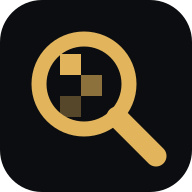
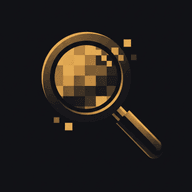
feat: use the Nano Banana brand art and log image QA batch 2
Icons and the link-preview card now come from the generated logo, icon and
banner: palette PNGs (icon-512 280 KB -> 34 KB), padding sampled from the
art so maskable crops show no seam, and the preview drops its drawn tiles
over the banner's own cards. Puzzle 38 accepts girl/schoolgirl, which the
image shows. 59 of 60 puzzle images exist; only #44 is missing.

diff --git a/scripts/build-brand.ts b/scripts/build-brand.ts
@@ -6,7 +6,6 @@ import { existsSync, mkdirSync, readFileSync } from "node:fs";
 import sharp from "sharp";
 
 const OUT = "public/brand";
-const BG = "#0b0d10";
 const find = (name: string) => ["png", "jpg", "jpeg", "webp"].map((e) => `content/brand/${name}.${e}`).find(existsSync);
 
 async function main() {
@@ -14,16 +13,19 @@ async function main() {
   const art = find("icon");
   const source = art ? readFileSync(art) : readFileSync("src/app/icon.svg");
   console.log(`icon source: ${art ?? "src/app/icon.svg (placeholder)"}`);
+  // Pad with the art's own background color so no seam shows when phones crop the icon.
+  const corner = await sharp(source, { density: 600 }).resize(64, 64, { fit: "cover" }).extract({ left: 1, top: 1, width: 1, height: 1 }).raw().toBuffer();
+  const pad = { r: corner[0] ?? 11, g: corner[1] ?? 13, b: corner[2] ?? 16, alpha: 1 };
 
   // Plain icons use the art edge to edge. The maskable icon pads it so phones can crop to a circle.
   for (const size of [192, 512]) {
-    await sharp(source, { density: 600 }).resize(size, size, { fit: "cover" }).png().toFile(`${OUT}/icon-${size}.png`);
+    await sharp(source, { density: 600 }).resize(size, size, { fit: "cover" }).png({ palette: true, quality: 90 }).toFile(`${OUT}/icon-${size}.png`);
   }
-  await sharp(source, { density: 600 }).resize(180, 180, { fit: "cover" }).flatten({ background: BG }).png().toFile("src/app/apple-icon.png");
+  await sharp(source, { density: 600 }).resize(180, 180, { fit: "cover" }).flatten({ background: pad }).png({ palette: true, quality: 90 }).toFile("src/app/apple-icon.png");
   const inner = await sharp(source, { density: 600 }).resize(410, 410, { fit: "cover" }).png().toBuffer();
-  await sharp({ create: { width: 512, height: 512, channels: 4, background: BG } })
+  await sharp({ create: { width: 512, height: 512, channels: 4, background: pad } })
     .composite([{ input: inner, gravity: "center" }])
-    .png()
+    .png({ palette: true, quality: 90 })
     .toFile(`${OUT}/icon-maskable-512.png`);
 
   const og = find("og-background");

diff --git a/src/app/opengraph-image.tsx b/src/app/opengraph-image.tsx
@@ -42,6 +42,16 @@ export default async function Image() {
           // eslint-disable-next-line @next/next/no-img-element -- ImageResponse renders plain img only
           <img src={bg} alt="" width={1200} height={630} style={{ position: "absolute", inset: 0, objectFit: "cover" }} />
         )}
+        {bg && (
+          // Keeps the title readable over the banner art.
+          <div
+            style={{
+              position: "absolute",
+              inset: 0,
+              background: `linear-gradient(90deg, ${INK} 0%, ${INK} 38%, rgba(11,13,16,0.55) 58%, rgba(11,13,16,0) 75%)`,
+            }}
+          />
+        )}
         <div style={{ display: "flex", alignItems: "center", gap: 28 }}>
           <svg width="96" height="96" viewBox="0 0 64 64">
             <rect x="20" y="18" width="7" height="7" fill={AMBER} />
@@ -49,10 +59,11 @@ export default async function Image() {
             <circle cx="28" cy="28" r="15" fill="none" stroke={AMBER} strokeWidth="5" />
             <path d="M39 39l13 13" stroke={AMBER} strokeWidth="7" strokeLinecap="round" />
           </svg>
-          <div style={{ fontSize: 84, fontWeight: 700, letterSpacing: -2 }}>{en.appName}</div>
+          <div style={{ fontSize: bg ? 68 : 84, fontWeight: 700, letterSpacing: -2 }}>{en.appName}</div>
         </div>
-        <div style={{ fontSize: 38, marginTop: 24, maxWidth: 760, color: "#cfccc5" }}>{en.tagline}</div>
-        <div style={{ display: "flex", gap: 18, marginTop: 56 }}>
+        <div style={{ fontSize: bg ? 32 : 38, marginTop: 24, maxWidth: bg ? 540 : 760, color: "#cfccc5" }}>{en.tagline}</div>
+        {/* The Nano Banana banner draws its own four cards; the plain version draws the slots. */}
+        <div style={{ display: bg ? "none" : "flex", gap: 18, marginTop: 56 }}>
           {SLOT_KEYS.map((slot) => (
             <div
               key={slot}

diff --git a/docs/CONTENT-LOG.md b/docs/CONTENT-LOG.md
@@ -27,3 +27,22 @@ Notes:
 - Puzzles 34 to 60 written in three batches (content/raw/batch-04 to 06): 0 validator errors. Two HOT words removed because typo tolerance would have scored them SOLVED ("toasting" vs "roasting" in #44, vs "tasting" in #56).
 - New style in rotation: renaissance painting (#42, a Saturday).
 - Prompt template v2 applied to the two image redos: #14 adds "geometric fragmented shapes" to cubism, #24 asks for "benches and dumbbell racks" so the gym is visible.
+
+## 2026-10-05: Image QA, batch 2 (brand + puzzles 14, 24, 25, 27 to 60)
+
+Source: Nano Banana in the Gemini app, prompts from docs/NANO-BANANA-PROMPTS.md. 41 files arrived in one folder, saved in order but with five brand images and no #44, so everything was mapped by content, not position.
+
+| Result | Puzzles | Count |
+|---|---|---|
+| Pass | 14 (v2), 25, 27 to 32, 34 to 37, 39 to 43, 45 to 47, 49 to 55, 57 to 60 | 30 |
+| Pass with a note | 24 v2 (gym now clear; graffiti is on the walls rather than the art style), 33 (a readable EXIT sign, no answer leak), 38 (shows a girl: answer list fixed), 48 (art deco is in the decor; the render looks photographic) | 4 |
+| Weak | 56 (pointillism dots only visible up close; reads as a realistic painting on a phone) | 1 |
+| Missing | 44 (dragon roasting marshmallows) | 1 |
+
+First-pass acceptance: 34 of 35 delivered puzzle images (97%), up from 92% in batch 1. Prompt template v2 fixed both batch 1 rejects (#14 now strongly cubist, #24 now shows a gym).
+
+Brand: logo, icon, link-preview banner and texture all usable, plus one unrequested desk scene (kept as content/brand/extra-desk-portrait.jpg). The logo and icon came out 9:16 instead of square; brand:build crops the center square.
+
+Content change from QA: #38 WHO now accepts "girl" and "schoolgirl" (they were HOT, but the image shows a schoolgirl).
+
+Rejected v1 images are kept in content/images/rejected/ for before and after comparisons.

diff --git a/docs/OPEN-ITEMS.md b/docs/OPEN-ITEMS.md
@@ -14,12 +14,10 @@ Last updated: 2026-10-05 (after Day 4; launch moved to Sunday Oct 11). Close ite
 
 | Item | Due | Notes |
 |---|---|---|
-| Image #25 (mermaid) | Before Nov 4 | Missing. The zip's 0025 was #26's image, renamed. |
-| Images #27 to #60 | Nov 6 to Dec 9 | All prompts are in docs/NANO-BANANA-PROMPTS.md. |
-| Regenerate #24 (gorilla, graffiti) | Before Nov 3 | QA fail: no gym visible, and the background is giant graffiti letters. |
-| Regenerate #14 (blacksmith, cubism) | Before Oct 24 | QA weak: reads as oil painting, not cubism. Saturday puzzle, so the style must be fair. |
-| Brand images (logo, icon, link preview, texture) | Runbook Day 5 | Prompts in docs/NANO-BANANA-PROMPTS.md section 1. Save to content/brand/. |
-| Puzzle 0002 prompt says "pixar style" | Any time | The pipeline rules say no brands. Low risk; consider "animated movie style 3d render". |
+| Image #44 (dragon roasting marshmallows, crayon drawing) | Before Nov 23 | The only missing puzzle image. Prompt in docs/NANO-BANANA-PROMPTS.md. |
+| Optional: regenerate #56 (sommelier, pointillism) | Before Dec 5 | Weak style at phone size. Try adding "visible dots of pure color, Seurat" to the prompt. |
+| Puzzle 0002 prompt says "pixar style" | Any time | The pipeline rules say no brands. Low risk. |
+| Upload puzzles 4 to 60 | Runbook Day 7 | Run `npm run content:upload -- --only=4-43,45-60` now, and #44 once its image exists. The script refuses any selection that includes a puzzle without an image. Rows 1 to 3 are already uploaded. |
 
 ## Checks only Niri can do
 

diff --git a/docs/NANO-BANANA-PROMPTS.md b/docs/NANO-BANANA-PROMPTS.md
@@ -1,5 +1,7 @@
 # Nano Banana prompts
 
+Status (2026-10-05): everything below is generated except **#44** (the dragon). #56 is optional to redo. QA results are in docs/CONTENT-LOG.md.
+
 Everything still to generate before and after launch: 4 brand images and 37 puzzle images. Generated 2026-10-05 from the puzzle files, so each prompt matches what the end screen reveals.
 
 ## How to use this file
